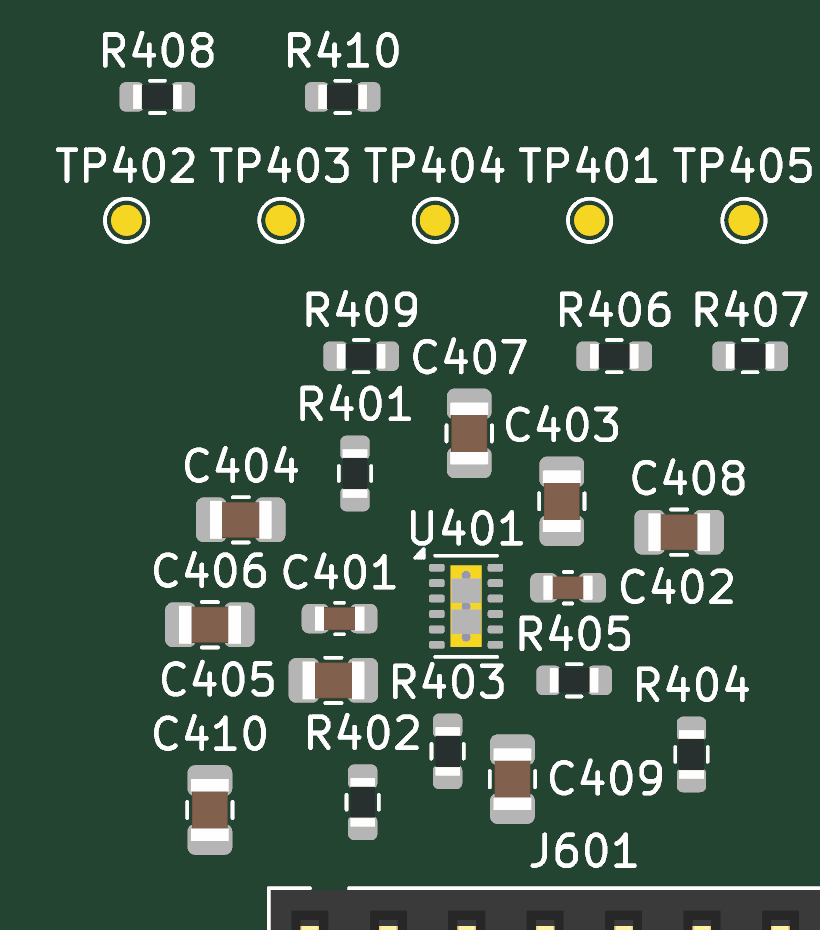
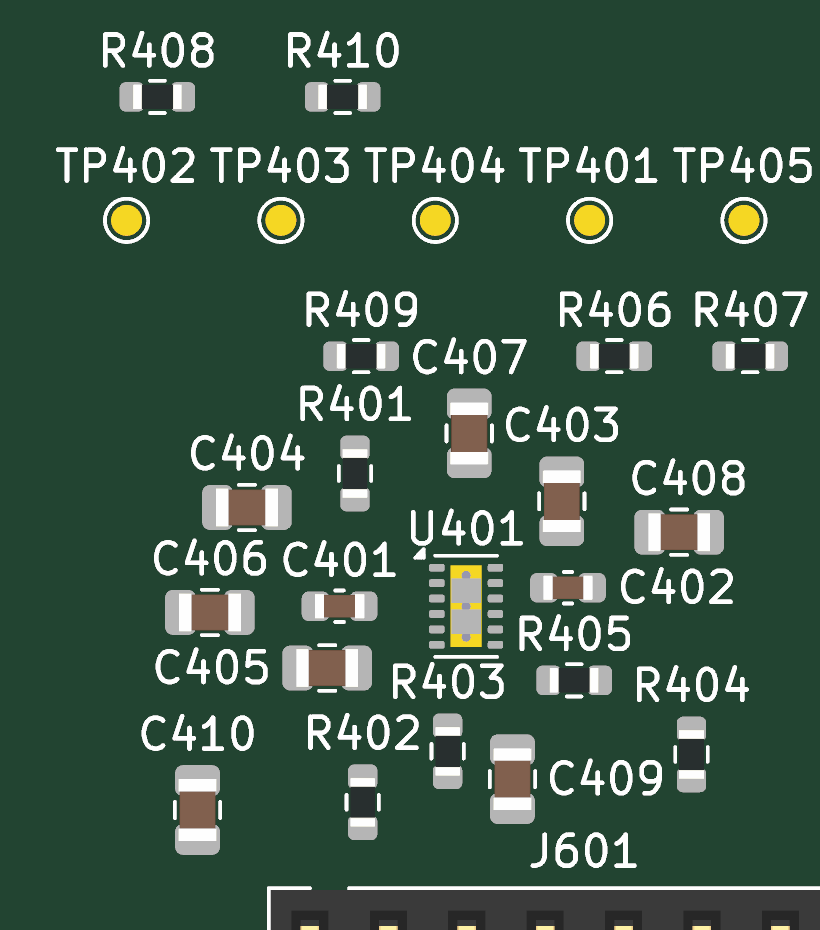
hardware: POWER pump caps and AWG R302 under silkread rule 3b (relayout, not routed)
Rule 3b (a part labelled beside has no other designator reading as
its above, east or west label, and its own does not read as another
part's above label) is a hard constraint in scan_csp.py. Positive
control, check3b.py on the previous states: flags R403 against C405
and R303 against R302 and nothing else. POWER rerun: 0, 1, 2 beside
infeasible; 3 beside (C405 west, C409 east, C402 east) feasible in
297 s; pump caps C405 2.88 (was 12.23), C406 6.42 (12.52), C409 4.19,
C407 3.99. AWG: R302 y 9.10 -> 9.25 takes R303's label out of its east
place; the AWG_INV tree stays 5.985.

Claude-Session: https://claude.ai/code/session_01GL7oYDXFNtALxKUhyZb7As

Changed region(s): [[0.1524, 0.4677, 0.4878, 0.9355]]

diff --git a/hardware/afe-proto/kicad/relayout/check3b.py b/hardware/afe-proto/kicad/relayout/check3b.py
@@ -1,0 +1,222 @@
+import re, sys, json
+import numpy as np
+from pcbtools import boardio, labelplace as LP, silkread
+from pcbtools.boards import v1 as C
+b = boardio.read_board('kicad/afe-proto.kicad_pcb')
+FENCE = {
+ '1': [(64.4, 31.8, 92.0, 48.7)],
+ '2': [(70.4, 21.6, 92.0, 31.6)],
+ '3': [(70.4, 4.6, 92.0, 21.2)],
+ '4': [(17.5, 4.6, 43.6, 33.0)],
+ '5': [(45.0, 4.6, 64.2, 40.0)],
+}
+WALL = [(64.4, 13.0, 70.2, 30.8)]
+R412 = [(38.6, 34.5, 45.0, 47.5)]
+WALLREFS = {'R309', 'R310', 'R515', 'R516'}
+WALLFREE = {'TP101'}
+LADDER = {'R503', 'R504', 'R505', 'R506', 'R507', 'R508'}
+HAND = {'R508': (52.07, 6.5), 'R506': (57.15, 6.5), 'R504': (62.23, 6.5), 'R507': (54.61, 9.35), 'R505': (59.69, 9.35),
+        'R503': (63.05, 10.15), 'J501': (56.54, 14.9), 'C502': (58.6, 26.4), 'D501': (62.4, 28.45), 'R509': (51.0, 38.4),
+        'R405': (36.5, 10.6), 'C408': (39.9, 15.4), 'C407': (33.1, 18.6), 'R407': (42.2, 21.1), 'R401': (29.4, 17.3), 'R409': (29.6, 21.1), 'R406': (37.8, 21.1), 'R403': (32.4, 8.3), 'R404': (40.3, 8.2), 
+        'TP402': (22.0, 25.5), 'TP403': (27.0, 25.5), 'TP404': (32.0, 25.5), 'TP401': (37.0, 25.5), 'TP405': (42.0, 25.5), 'R408': (23.0, 29.5), 'R410': (29.0, 29.5),  'C402': (36.3, 13.6), 'C403': (36.1, 16.4), 'C401': (28.9, 12.6), 'R302': (78.55, 9.1), 'R303': (82.0, 7.35), 'C301': (78.6, 7.35), 'R305': (85.45, 6.95), 'C304': (85.45, 8.9), 'C305': (72.3, 17.55)}
+ANCH = set(C.ANCHORS) | {'R411', 'U101', 'U301', 'U401', 'C402'} | set(HAND)
+LOCKX = WALLREFS | {'R110', 'J501'}
+NOLAB = ['J601','J602','J603','J604','J605','J606','J607','J101','J201','J301']
+refs, rel, target, fence = [], {}, {}, {}
+big = [(-1e3, -1e3, 1e3, 1e3)]
+for k, r in enumerate(b.fp_ref):
+    if np.isnan(b.fp_cx0[k]) or int(b.fp_side[k]) != 0: continue
+    refs.append(r)
+    ox, oy = float(b.fp_x[k]), float(b.fp_y[k])
+    rel[r] = (float(b.fp_cx0[k]) - ox, float(b.fp_cy0[k]) - oy, float(b.fp_cx1[k]) - ox, float(b.fp_cy1[k]) - oy)
+    x, y = ox, oy
+    m = re.fullmatch(r'[A-Z]+(\d)\d\d', r)
+    d = m.group(1) if m else '6'
+    if r in ANCH or d == '6':
+        fence[r] = big
+    elif r == 'J501': fence[r] = FENCE['5']
+    elif r in WALLREFS or r in WALLFREE: fence[r] = [(62.2, 12.0, 71.0, 31.4)]
+    elif r == 'R110': fence[r] = [(62.2, 32.0, 69.4, 48.7)]
+    elif r in ('R412', 'R413'): fence[r] = R412; y = 40.0
+    else:
+        fence[r] = FENCE[d]
+        if d == '4': y = 4.6 + (y - 4.6) * 1.55
+    target[r] = HAND.get(r, (x, y))
+ANCH |= {r for r in refs if re.fullmatch(r'[A-Z]+6\d\d', r)}
+# obstacles: headers' end labels, the identity strip
+obst = [(17.5, 34.0, 38.5, 47.0)]
+for r in ('J601','J602','J603','J604','J605','J606','J607'):
+    k = b.ref_index(r); c = (b.fp_cx0[k], b.fp_cy0[k], b.fp_cx1[k], b.fp_cy1[k]); w = len(r) * 0.9
+    cxm = (c[0] + c[2]) / 2
+    if (c[2]-c[0]) > (c[3]-c[1]):
+        if (c[1] + c[3]) / 2 < 26.67: obst.append((cxm - w / 2, c[3] + 0.2, cxm + w / 2, c[3] + 1.2))      # lower half: above, on the inboard side
+        else: obst.append((cxm - w / 2, c[1] - 1.2, cxm + w / 2, c[1] - 0.2))                              # upper half: below
+    else: obst.append((cxm - w / 2, c[3] + 0.2, cxm + w / 2, c[3] + 1.2))
+
+obst[3] = (obst[3][0] - 0.35, obst[3][1] - 0.35, obst[3][2] + 0.35, obst[3][3] + 0.35)    # J603's label: 1.0 mm clear of every part body (spec lead)
+BRIDGES_ = frozenset({'R309','R310','R515','R516','R110','D101','D201','R107','R207','TP101','TP201'})
+obst.append((65.7, 4.4, 66.4, 40.0, BRIDGES_))      # the A1 and A0 lines run up the wall: only the parts on them may stand in their columns
+obst.append((68.2, 4.4, 68.9, 40.0, BRIDGES_))
+
+# ---- hard constraints from the landed board (LR-4/LR-5/LR-12): critical parts keep their distance to the pin they serve; A0/A1 get no longer
+padrel = {}
+padpos = {}
+for j in range(len(b.p_fp)):
+    r = b.fp_ref[int(b.p_fp[j])]
+    k = int(b.p_fp[j])
+    padrel.setdefault(r, {})[b.p_pin[j]] = (float(b.p_x[j] - b.fp_x[k]), float(b.p_y[j] - b.fp_y[k]), int(b.p_net[j]))
+def pr(ref, pin): return padrel[ref][pin][:2]
+def landed(ra, pa, rb, pb):
+    xa = b.fp_x[b.ref_index(ra)] + PADREL0[ra][pa][:2][0]; ya = b.fp_y[b.ref_index(ra)] + PADREL0[ra][pa][:2][1]
+    xb = b.fp_x[b.ref_index(rb)] + PADREL0[rb][pb][:2][0]; yb = b.fp_y[b.ref_index(rb)] + PADREL0[rb][pb][:2][1]
+    return float(((xa - xb) ** 2 + (ya - yb) ** 2) ** .5)
+import os as _o2
+SLK = {kv.split(':')[0]: float(kv.split(':')[1]) for kv in _o2.environ.get('SLACKMAP', '').split(',') if kv}
+SLK_DEFAULT = float(_o2.environ.get('SLACKD', '1000'))
+import copy, os
+PADREL0 = copy.deepcopy(padrel)
+ROTOV = json.load(open('whatif/_scratch/rotov.json')) if os.path.exists('whatif/_scratch/rotov.json') else {}
+ROT0 = json.load(open('whatif/_scratch/rot.json'))
+for r_, new_ in ROTOV.items():
+    d_ = (new_ - ROT0[r_]) % 360
+    if d_ in (90, 270):
+        x0_, y0_, x1_, y1_ = rel[r_]
+        rel[r_] = (y0_, x0_, y1_, x1_)
+    for pin_, (px_, py_, n_) in list(padrel[r_].items()):
+        if d_ == 90: padrel[r_][pin_] = (-py_, px_, n_)
+        elif d_ == 270: padrel[r_][pin_] = (py_, -px_, n_)
+        elif d_ == 180: padrel[r_][pin_] = (-px_, -py_, n_)
+CAPS = []
+CRIT = set()
+SKIPN = {'', '/GND'}
+for ic in ('U101', 'U301', 'U401', 'U501', 'U502'):
+    for pin, (dx, dy, net) in padrel[ic].items():
+        if b.nets[net] in SKIPN: continue
+        for q, pads in padrel.items():
+            if q == ic or q[0] not in 'RCD' or q in ANCH and q not in HAND: continue
+            for qpin, (qx, qy, qnet) in pads.items():
+                if qnet == net:
+                    d = landed(q, qpin, ic, pin)
+                    if d <= 8.0:
+                        CRIT.add(q)
+                        CAPS.append((q, (qx, qy), ic, (dx, dy), round(d + SLK.get(q, SLK_DEFAULT), 3)))
+LIM = {('C103', 'U101', '8'): 3.0, ('C302', 'U301', '8'): float(os.environ.get('LIM302', '3.0')), ('C303', 'U301', '4'): float(os.environ.get('LIM302', '3.0')), ('C502', 'U502', '8'): 3.0, ('C501', 'U501', '1'): 3.0}
+dec = {}
+for (cap, ic, pin), L in LIM.items():
+    net = padrel[ic][pin][2]
+    for qpin, (qx, qy, qnet) in padrel[cap].items():
+        if qnet == net:
+            d = L - 0.05
+            CAPS = [c for c in CAPS if not (c[0] == cap and c[2] == ic and c[1] == (qx, qy))]
+            CAPS.append((cap, (qx, qy), ic, pr(ic, pin), round(d, 3)))
+for riso, outpin in (('R107', None), ('R207', None)):
+    pass
+for ch in C.CHANNELS:
+    rr = ch['riso']; ic, pin = ch['out_pin']
+    d = 4.8
+    CAPS.append((rr, pr(rr, '1'), ic, pr(ic, pin), round(d, 3)))
+# POWER relaxations (spec lead): FB-divider ties, absolute caps for the VIN decoupling caps, pads exempt from the tie
+ABSM = {}
+for kv in os.environ.get('ABSMAP', '').split(','):
+    if kv:
+        a_, d_ = kv.split(':'); ABSM[tuple(a_.split('@'))] = float(d_)
+IGN = {tuple(kv.split('@')) for kv in os.environ.get('IGNORE', '').split(',') if kv}
+def _pin_of(ic, off):
+    for pin_, (px_, py_, n_) in padrel[ic].items():
+        if abs(px_ - off[0]) < 1e-6 and abs(py_ - off[1]) < 1e-6: return pin_
+newcaps = []
+for c in CAPS:
+    q, qoff, ic, icoff, D = c
+    qpin = None
+    for pin_, (px_, py_, n_) in padrel[q].items():
+        if abs(px_ - qoff[0]) < 1e-6 and abs(py_ - qoff[1]) < 1e-6: qpin = pin_
+    if (q, qpin) in IGN: continue
+    absrefs = {k[0] for k in ABSM}
+    if ic == 'U401' and q in absrefs:
+        pin = _pin_of(ic, icoff)
+        if (q, pin) in ABSM:
+            c = (q, qoff, ic, icoff, ABSM[(q, pin)])
+        else:
+            continue
+    newcaps.append(c)
+CAPS = newcaps
+for _a, _pa, _b, _pb, _d in json.loads(os.environ.get('EXTRACAPS', '[]')):
+    CAPS.append((_a, padrel[_a][_pa][:2], _b, padrel[_b][_pb][:2], _d))
+SPANS = []
+for nm in ('/A0', '/A1', '/AWG_INV'):
+    nid = b.nets.index(nm)
+    mem, xs, ys = [], [], []
+    for r, pads in padrel.items():
+        for pin, (px, py, n_) in pads.items():
+            if n_ == nid and not np.isnan(b.fp_x[b.ref_index(r)]):
+                k = b.ref_index(r)
+                mem.append((r, (px, py))); xs.append(b.fp_x[k] + px); ys.append(b.fp_y[k] + py)
+    SPANS.append((mem, round(max(xs) - min(xs) + (0.4 if nm == '/AWG_INV' else 0), 3), round(max(ys) - min(ys) + (0.4 if nm == '/AWG_INV' else 0), 3)))
+# the reference to the ladder and the ADS: U501's VREF pad to R508 and U502.4
+
+import os as _os
+SC = float(_os.environ.get('CAPSCALE', '1.0'))
+if SC != 1.0:
+    keep = {(c, i) for (c, i, p_), L in LIM.items()}
+    CAPS = [(a_, pa_, b_, pb_, (D if (a_, b_) in keep else round(D * SC, 3))) for (a_, pa_, b_, pb_, D) in CAPS]
+    SPANS = [(m, round(wx * SC, 3), round(wy * SC, 3)) for m, wx, wy in SPANS]
+XMIN = {}
+print('critical', len(CRIT), sorted(CRIT)[:60])
+print('caps', len(CAPS), 'spans', [(len(m), wx, wy) for m, wx, wy in SPANS])
+
+import os
+from pcbtools import labelplace as LPm
+J = json.load(open('whatif/_scratch/relay_pos.json'))
+pos = {r: tuple(J[r]) for r in refs}
+ov = json.load(open('whatif/_scratch/override.json')) if os.path.exists('whatif/_scratch/override.json') else {}
+for r, v in ov.items(): pos[r] = tuple(v)
+for r_, v_ in HAND.items(): pos[r_] = v_
+pos['R411'] = (48.275, 3.1)
+from pcbtools.labelplace import P as _P
+
+_lmf = os.environ.get('LABMODEFILE', 'whatif/_scratch/labmode.json')
+LABMODE = json.load(open(_lmf)) if os.path.exists(_lmf) else {}
+LPm.LABMODES.update(LABMODE)
+def _setmode(p):
+    m = LABMODE.get(p.ref, 'A')
+    if m == 'A': return p
+    cy = (p.ry0 + p.ry1) / 2
+    p.ly0, p.ly1 = cy - 0.5, cy + 0.5
+    if m == 'E': p.lx0 = p.rx1 + 0.2; p.lx1 = p.lx0 + p.w
+    else: p.lx1 = p.rx0 - 0.2; p.lx0 = p.lx1 - p.w
+    return p
+parts = [_setmode(_P(r, rel[r], r not in ANCH, r in NOLAB)) for r in refs]
+rect = {}
+for i, p in enumerate(parts):
+    if p.free:
+        x, y = pos[p.ref]; bb = LPm._bb(p, x, y); best_ = None
+        for q in fence[p.ref]:
+            d = max(q[0]-bb[0], 0)+max(bb[2]-q[2], 0)+max(q[1]-bb[1], 0)+max(bb[3]-q[3], 0)
+            if best_ is None or d < best_[0]: best_ = (d, q)
+        rect[i] = best_[1]
+
+import numpy as np
+from pcbtools.labelplace import P, _shapes
+def reads(L, C, kind):
+    if kind == 'above':
+        return abs((L[0] + L[2]) / 2 - (C[0] + C[2]) / 2) <= 0.3 and -1e-6 <= L[1] - C[3] <= 0.6 + 1e-6
+    cyL = (L[1] + L[3]) / 2; cyC = (C[1] + C[3]) / 2
+    if kind == 'east':
+        return abs(cyL - cyC) <= 0.3 and -1e-6 <= L[0] - C[2] <= 0.6 + 1e-6
+    return abs(cyL - cyC) <= 0.3 and -1e-6 <= C[0] - L[2] <= 0.6 + 1e-6
+BESIDE_ALL = {r for r, m in LABMODE.items() if m in ('E', 'W')}
+pp3 = {r: _setmode(P(r, rel[r], r not in ANCH, r in NOLAB)) for r in refs}
+def viol3b(pos, only=None):
+    out = []
+    for X in BESIDE_ALL:
+        if X not in pos or (only and X not in only): continue
+        CX, LX = _shapes(pp3[X], *pos[X])
+        for Y in refs:
+            if Y == X or Y in NOLAB or pp3[Y].w == 0: continue
+            CY, LY = _shapes(pp3[Y], *pos[Y])
+            for k in ('above', 'east', 'west'):
+                if reads(LY, CX, k): out.append(f'{Y} label reads as {X} {k} label')
+            if reads(LX, CY, 'above'): out.append(f'{X} beside label reads as {Y} above label')
+    return out
+if __name__ == '__main__':
+    for v in viol3b(pos): print('3B', v)

diff --git a/hardware/afe-proto/kicad/relayout/scan_csp.py b/hardware/afe-proto/kicad/relayout/scan_csp.py
@@ -251,6 +251,19 @@ def single(ref, d, mode, xs, ys, keep=None):
     return p, X[ok], Y[ok]
 def rng(c, h, g): return np.arange(c - h, c + h + 1e-9, g)
 
+
+def reads_a(L, C, kind):
+    """a designator box L reads as the label of the part with courtyard C in the above / east / west place (centred to 0.3, gap 0 to 0.6)"""
+    if kind == 'above':
+        return (np.abs((L[0] + L[2]) / 2 - (C[0] + C[2]) / 2) <= 0.3) & (L[1] - C[3] >= -1e-6) & (L[1] - C[3] <= 0.6 + 1e-6)
+    cyL = (L[1] + L[3]) / 2; cyC = (C[1] + C[3]) / 2
+    if kind == 'east':
+        return (np.abs(cyL - cyC) <= 0.3) & (L[0] - C[2] >= -1e-6) & (L[0] - C[2] <= 0.6 + 1e-6)
+    return (np.abs(cyL - cyC) <= 0.3) & (C[0] - L[2] >= -1e-6) & (C[0] - L[2] <= 0.6 + 1e-6)
+KINDS = ('above', 'east', 'west')
+RULE3B = not os.environ.get('NO3B')
+for _r in CSP: LPm.LABMODES.pop(_r, None)
+BESIDE_STATIC = {r: m for r, m in LABMODE.items() if m in ('E', 'W') and r not in CSP}
 G = float(os.environ.get('GRID', '0.2')); BF = set(os.environ.get('BF', '').split(','))
 u = {p: (pos['U401'][0] + padrel['U401'][p][0], pos['U401'][1] + padrel['U401'][p][1]) for p in padrel['U401'] if p in '123456789' or p in ('10', '11', '12')}
 # (ref, own pad, U401 pin, limit)
@@ -289,8 +302,22 @@ for ref in sorted(CSP):
         for pad, pin, lim in TIES[ref]:
             ox, oy = padoff(ref, pad, d)
             ok &= np.hypot(X + ox - u[pin][0], Y + oy - u[pin][1]) <= lim + 1e-9
+        if RULE3B and len(X):
+            pv = variant(ref, d, mode); C_, L_ = shp(pv, X, Y)
+            for r_, (sx, sy) in static:
+                if sp[r_].w == 0 or abs(sx - 31) > 25 or abs(sy - 19) > 22: continue
+                Cs, Ls = shp(sp[r_], sx, sy)
+                bad3 = np.zeros(len(X), bool)
+                if mode != 0:
+                    for k in KINDS: bad3 |= reads_a(Ls, C_, k)
+                    bad3 |= reads_a(L_, Cs, 'above')
+                if r_ in BESIDE_STATIC:
+                    for k in KINDS: bad3 |= reads_a(L_, Cs, k)
+                    bad3 |= reads_a(Ls, C_, 'above')
+                ok &= ~bad3
         for x, y in zip(X[ok], Y[ok]): rows.append((d, mode, x, y))
     cands[ref] = np.array(rows) if rows else np.zeros((0, 4))
+    if ref == 'C405': print('CTRL C405 at (28.6..28.8,10.6) west label present:', int(((np.abs(cands[ref][:,2]-28.7)<0.11)&(np.abs(cands[ref][:,3]-10.6)<0.11)&(cands[ref][:,1]==2)).sum()) if len(cands[ref]) else 0)
     print('CSP', ref, len(rows))
 names = sorted(CSP, key=lambda r: len(cands[r]))
 def shapes(ref):
@@ -303,7 +330,16 @@ def shapes(ref):
 SH = {r: shapes(r) for r in names}
 def compat(a, b):
     Ca, La = SH[a]; Cb, Lb = SH[b]
-    return ~conf_np([c[:, None] for c in Ca], [l[:, None] for l in La], [c[None, :] for c in Cb], [l[None, :] for l in Lb])
+    A = lambda arr: [c[:, None] for c in arr]; B = lambda arr: [c[None, :] for c in arr]
+    ok_ = ~conf_np(A(Ca), A(La), B(Cb), B(Lb))
+    if RULE3B:
+        bA = (cands[a][:, 1] != 0)[:, None]; bB = (cands[b][:, 1] != 0)[None, :]
+        for k in KINDS:
+            ok_ &= ~(bA & reads_a(B(Lb), A(Ca), k))
+            ok_ &= ~(bB & reads_a(A(La), B(Cb), k))
+        ok_ &= ~(bA & reads_a(A(La), B(Cb), 'above'))
+        ok_ &= ~(bB & reads_a(B(Lb), A(Ca), 'above'))
+    return ok_
 CM = {}
 for i, a in enumerate(names):
     for b in names[i + 1:]:

diff --git a/hardware/afe-proto/kicad/relayout/fixpos.py b/hardware/afe-proto/kicad/relayout/fixpos.py
@@ -18,7 +18,7 @@ LADDER = {'R503', 'R504', 'R505', 'R506', 'R507', 'R508'}
 HAND = {'R508': (52.07, 6.5), 'R506': (57.15, 6.5), 'R504': (62.23, 6.5), 'R507': (54.61, 9.35), 'R505': (59.69, 9.35),
         'R503': (63.05, 10.15), 'J501': (56.54, 14.9), 'C502': (58.6, 26.4), 'D501': (62.4, 28.45), 'R509': (51.0, 38.4),
         'R405': (36.5, 10.6), 'C408': (39.9, 15.4), 'C407': (33.1, 18.6), 'R407': (42.2, 21.1), 'R401': (29.4, 17.3), 'R409': (29.6, 21.1), 'R406': (37.8, 21.1), 'R403': (32.4, 8.3), 'R404': (40.3, 8.2), 
-        'TP402': (22.0, 25.5), 'TP403': (27.0, 25.5), 'TP404': (32.0, 25.5), 'TP401': (37.0, 25.5), 'TP405': (42.0, 25.5), 'R408': (23.0, 29.5), 'R410': (29.0, 29.5),  'C402': (36.3, 13.6), 'C403': (36.1, 16.4), 'C401': (28.9, 12.6), 'R302': (78.55, 9.1), 'R303': (82.0, 7.35), 'C301': (78.6, 7.35), 'R305': (85.45, 6.95), 'C304': (85.45, 8.9), 'C305': (72.3, 17.55)}
+        'TP402': (22.0, 25.5), 'TP403': (27.0, 25.5), 'TP404': (32.0, 25.5), 'TP401': (37.0, 25.5), 'TP405': (42.0, 25.5), 'R408': (23.0, 29.5), 'R410': (29.0, 29.5),  'C402': (36.3, 13.6), 'C403': (36.1, 16.4), 'C401': (28.9, 13.0), 'R302': (78.55, 9.25), 'R303': (82.0, 7.35), 'C301': (78.6, 7.35), 'R305': (85.45, 6.95), 'C304': (85.45, 8.9), 'C305': (72.3, 17.55)}
 ANCH = set(C.ANCHORS) | {'R411', 'U101', 'U301', 'U401', 'C402'} | set(HAND)
 LOCKX = WALLREFS | {'R110', 'J501'}
 NOLAB = ['J601','J602','J603','J604','J605','J606','J607','J101','J201','J301']
